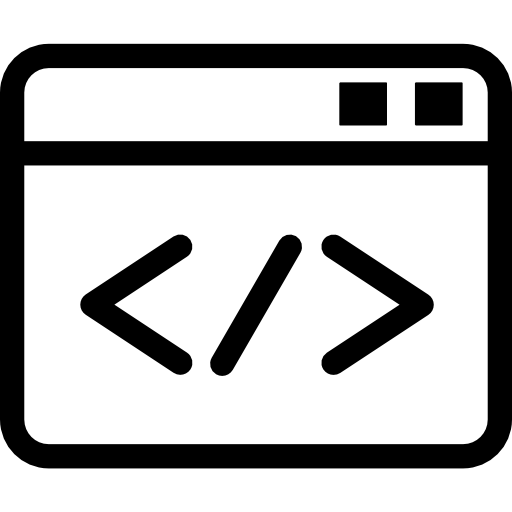
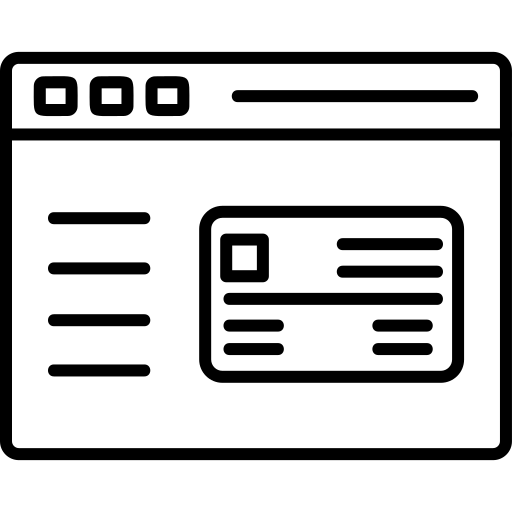
Se ajusta servicios para que use png mientras se definen los svg. Se incorpora imagen para nuevo servicio

diff --git a/src/app/feature/proyectos/proyectos.component.html b/src/app/feature/proyectos/proyectos.component.html
@@ -2,30 +2,33 @@
   <div class="titulo" data-aos="zoom-in" data-aos-duration="2000" data-aos-once="true">
     <h2>{{projectTitle}}</h2>
   </div>
-  <div class="carrusel-proyectos" data-aos="zoom-in" data-aos-duration="2000" data-aos-once="true">
-      <owl-carousel-o [options]="customOptions">
-        <ng-container *ngFor="let item of projectItem">
-          <ng-template carouselSlide>
-            <mat-card class="proyecto-card">
+    <div class="contenedor" data-aos="zoom-in" data-aos-duration="2000" data-aos-once="true">
+      <div class="carrusel-proyectos">
+          <owl-carousel-o [options]="customOptions">
+            <ng-container *ngFor="let item of projectItem">
+              <ng-template carouselSlide>
+                <mat-card class="proyecto-card">
 
-              <div class="contenedor-img">
-                <figure>
-                  <img [src]="item.imgUrl" alt="Imagen {{ item.projectType }} - {{item.projectName}}">
-                </figure>
-              </div>
-              <mat-card-title class="titulo-card">
-                {{ item.projectType }} - {{item.projectName}}
-              </mat-card-title>
+                  <div class="contenedor-img">
+                    <figure>
+                      <img [src]="item.imgUrl" alt="Imagen {{ item.projectType }} - {{item.projectName}}">
+                    </figure>
+                  </div>
+                  <mat-card-title class="titulo-card">
+                    {{ item.projectType }} - {{item.projectName}}
+                  </mat-card-title>
 
-              <mat-card-content class="descripcion-card">
-                <a class="btn-principal" (click)="abrirModal(item.modalId)">{{ seeMoreBtn }}</a>
-              </mat-card-content>
+                  <mat-card-content class="descripcion-card">
+                    <a class="btn-principal" (click)="abrirModal(item.modalId)">{{ seeMoreBtn }}</a>
+                  </mat-card-content>
 
-            </mat-card>
-          </ng-template>
-        </ng-container>
-      </owl-carousel-o>
-    </div>
+                </mat-card>
+              </ng-template>
+            </ng-container>
+          </owl-carousel-o>
+      </div>
+   </div>
+
 
 </section>
 

diff --git a/src/app/feature/servicios/servicios.component.html b/src/app/feature/servicios/servicios.component.html
@@ -8,9 +8,15 @@
           <ng-template carouselSlide>
             <mat-card class="servicio-card">
 
-              <div class="icono-wrapper">
-                <div class="icono" [style.--mask-url]="'url(' + item.imgUrl + ')'"></div>
+              <div class="contenedor-img">
+                <figure>
+                  <img src="{{item.imgUrl}}" alt="">
+                </figure>
               </div>
+
+              <!-- <div class="icono-wrapper">
+                <div class="icono" [style.--mask-url]="'url(' + item.imgUrl + ')'"></div>
+              </div> -->
 
               <mat-card-title class="titulo-card">
                 {{ item.servName }}

diff --git a/src/app/feature/servicios/servicios.component.css b/src/app/feature/servicios/servicios.component.css
@@ -62,6 +62,18 @@ mat-card {
   justify-content: space-around;
 }
 
+.contenedor-img{
+  background-color: white;
+  padding: 1rem 1rem;
+  margin: auto;
+  display: flex;
+  justify-content: center;
+  align-items: center;
+  width: 30%;
+  min-height: 100px;
+  border-radius: 80px;
+}
+
 .carrusel-wrapper {
   width: 100%;
   display: block;
